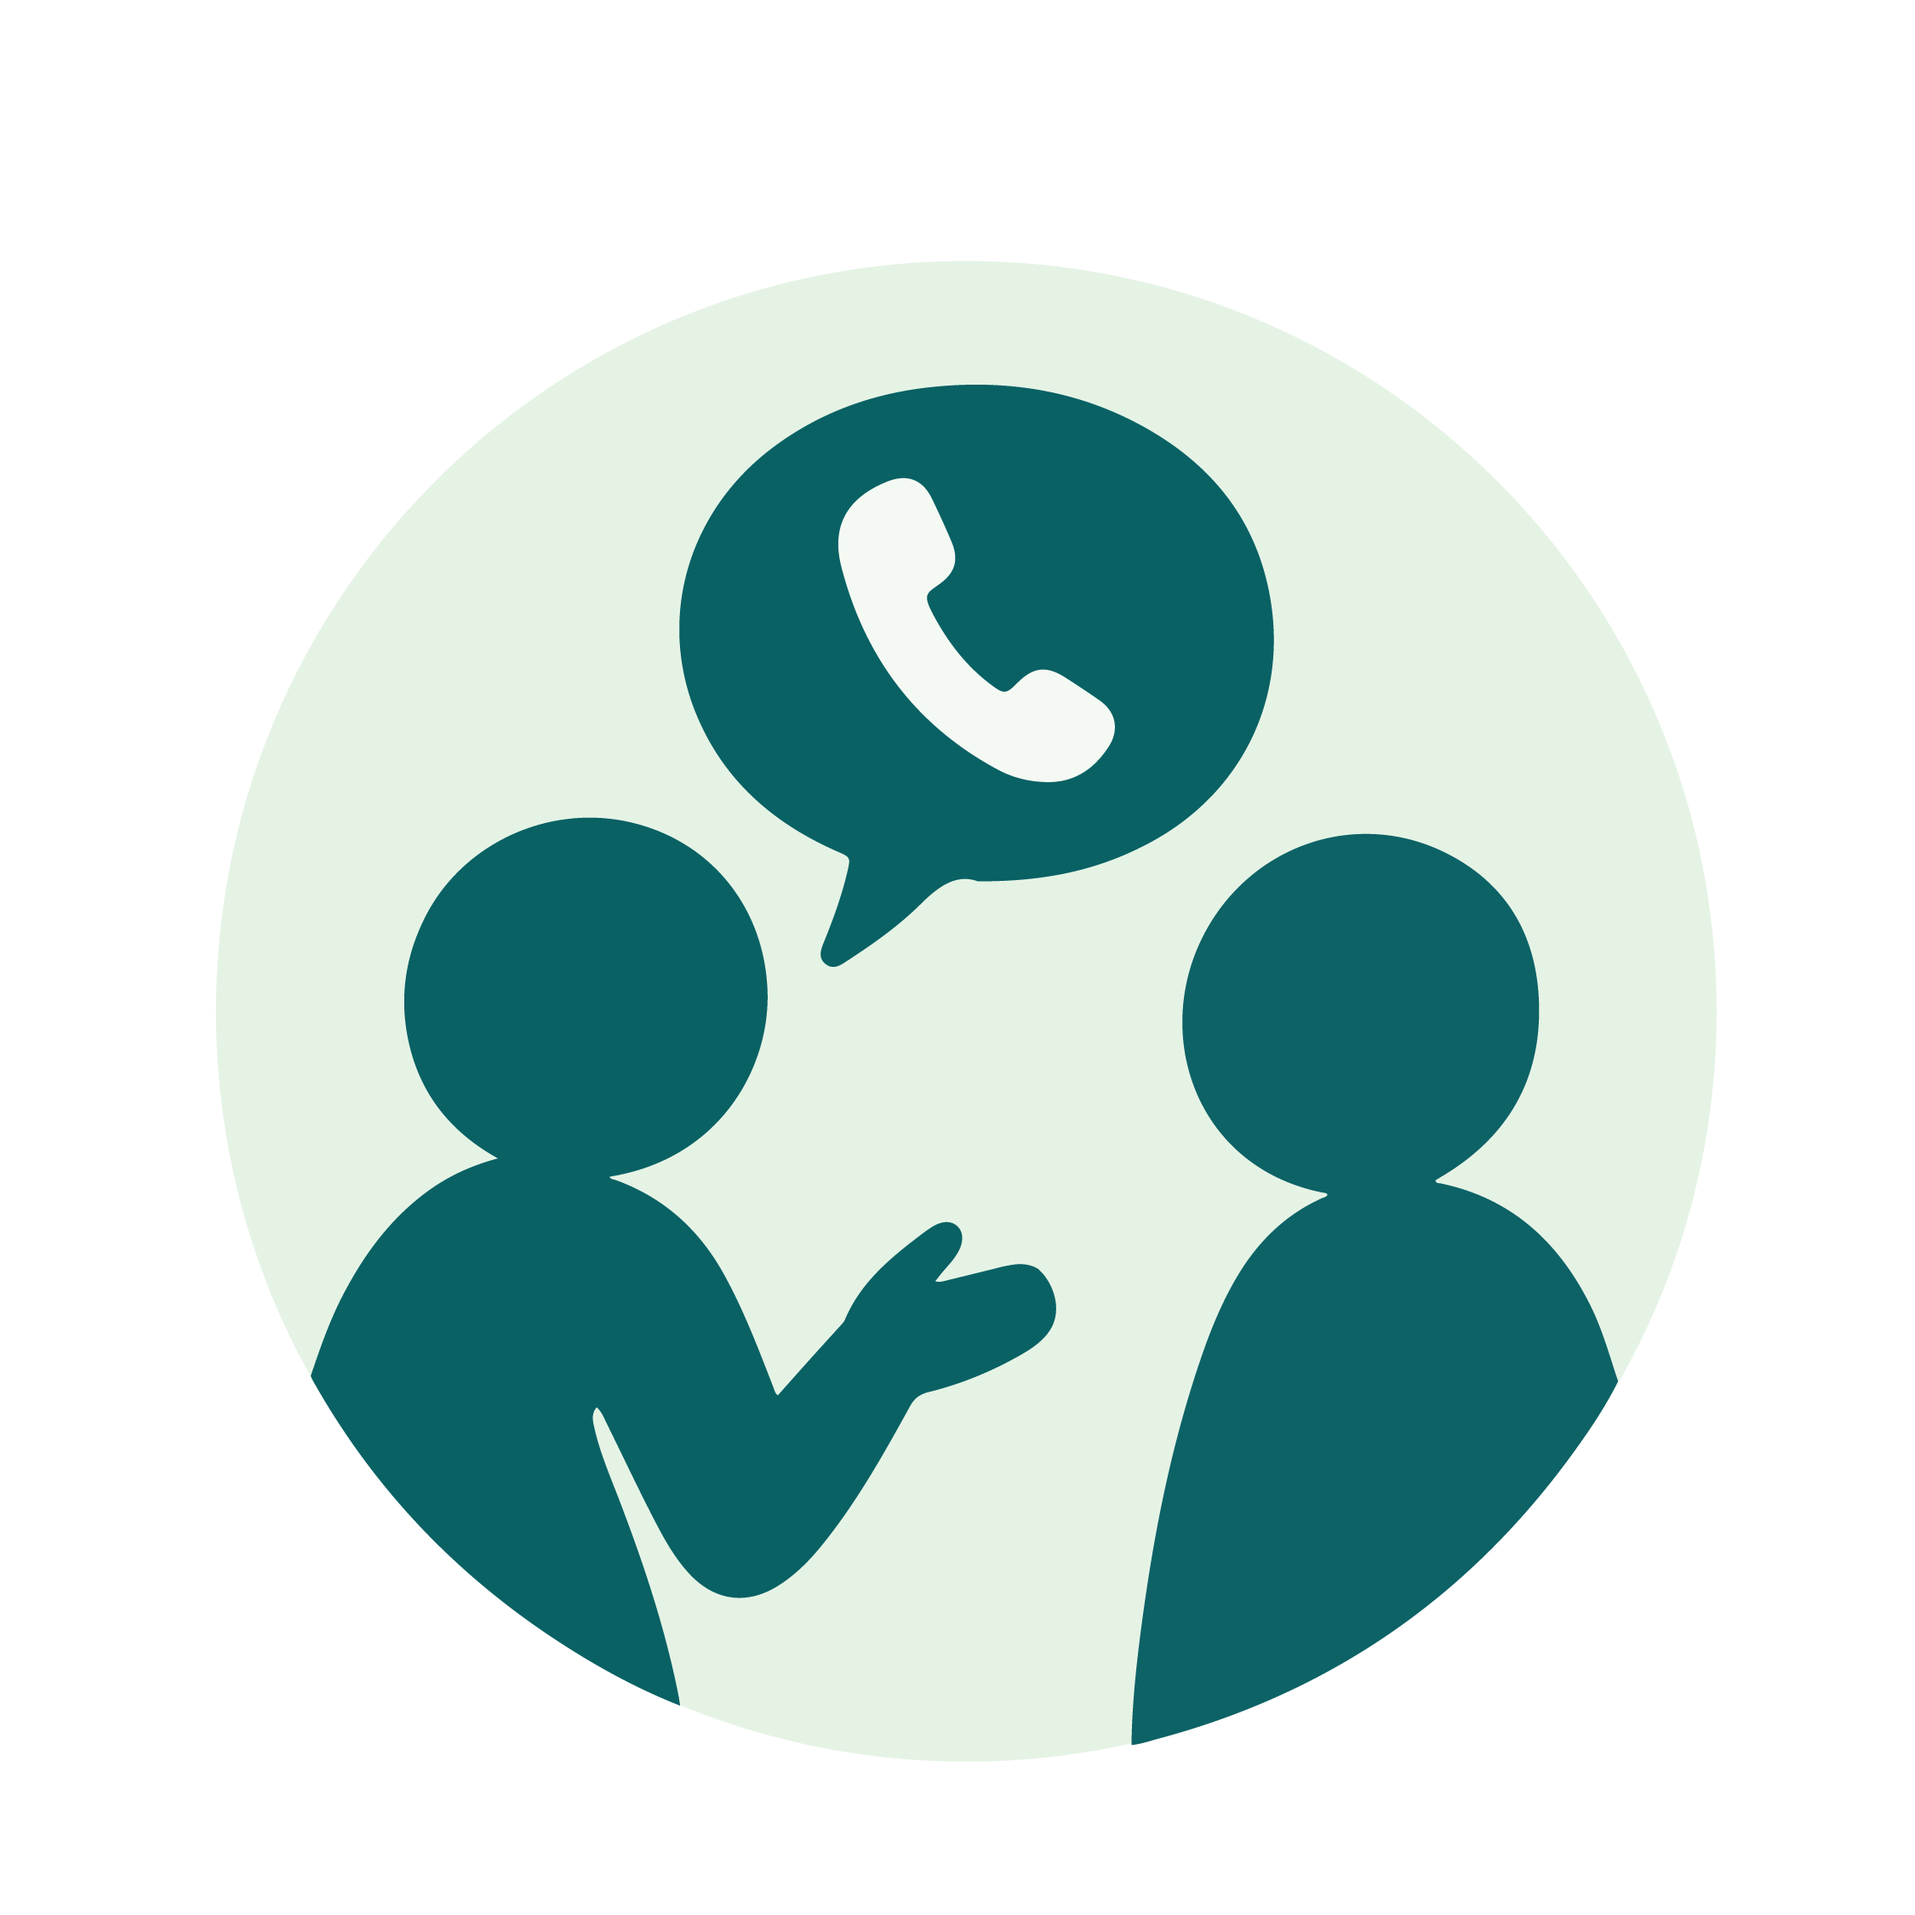
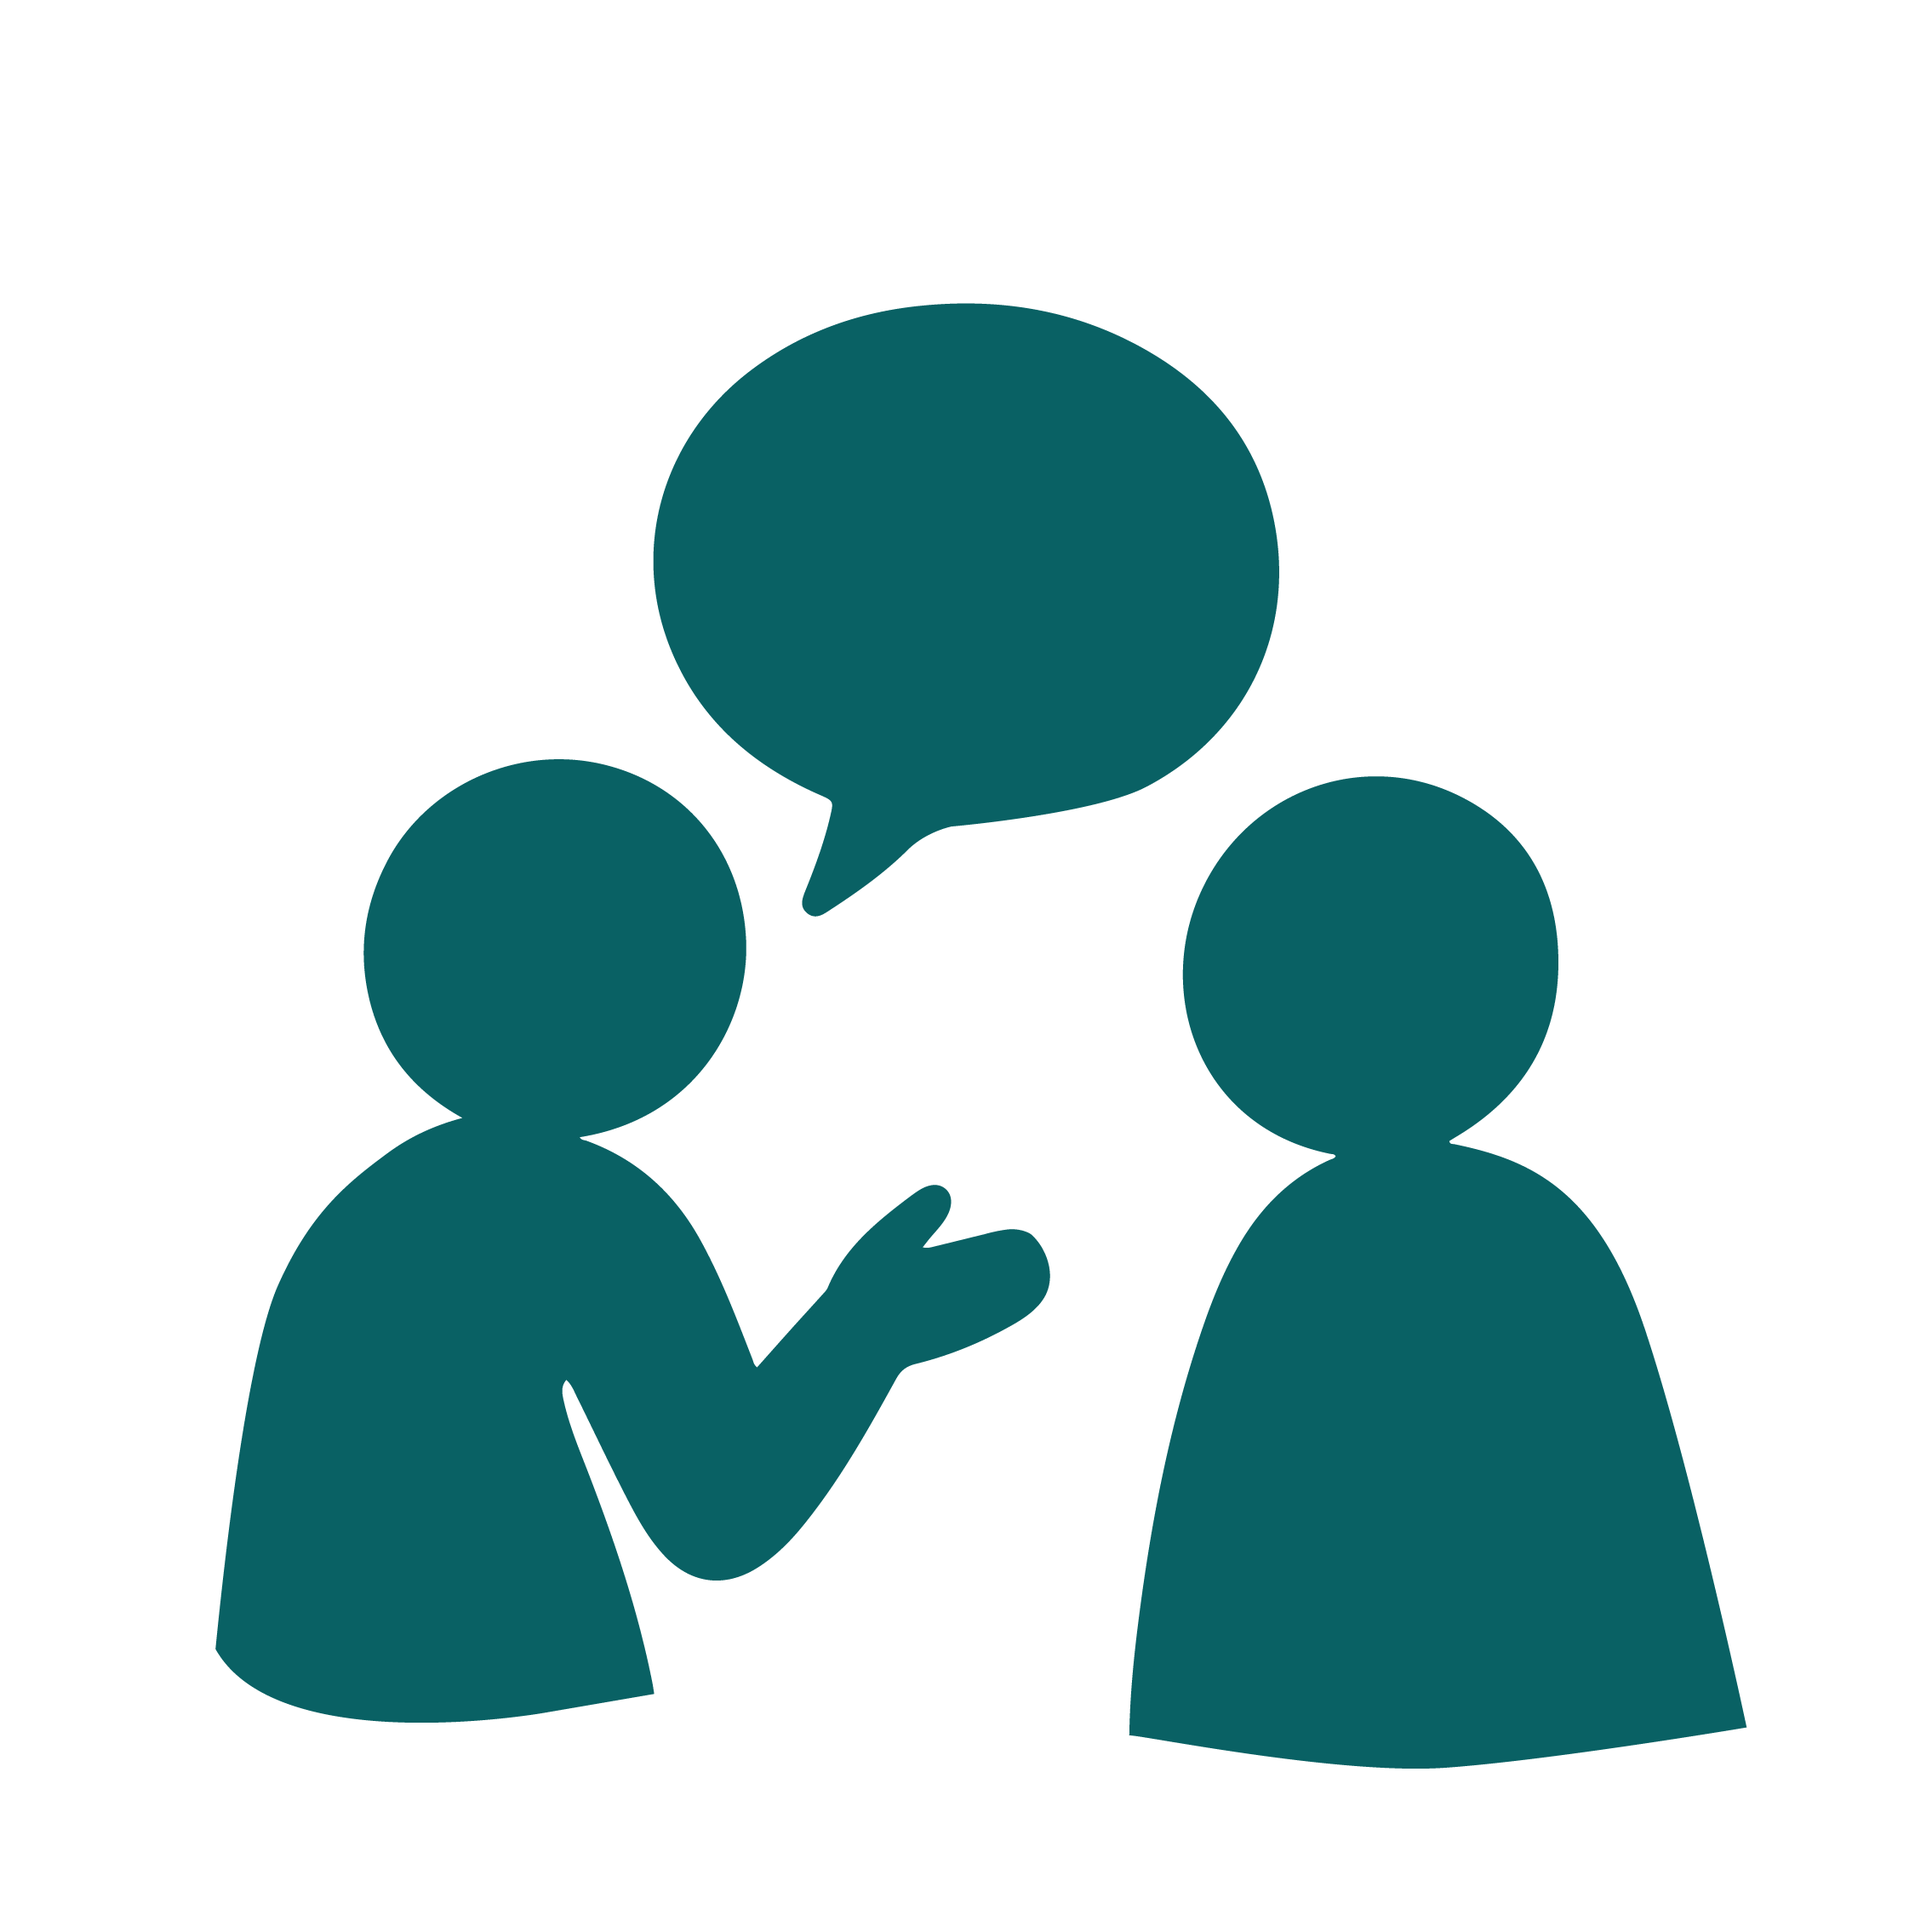
Cambiar icono abuso sexual

diff --git a/styles.css b/styles.css
@@ -7,7 +7,8 @@
   --wa:#25D366;--wa-dark:#128C4A;
   --radius:30px;--gap:18px;--max:1240px;
   --ease:cubic-bezier(.2,.75,.25,1);
-  --logo-h:60px; /* alto de los logos en la barra superior */
+  --logo-h:60px; /* alto del logo del Arzobispado en la barra superior */
+  --logo-cep-h:80px; /* alto del logo de la Comisión (más grande, para equilibrar con el del Arzobispado) */
 }
 *{box-sizing:border-box}
 html{scroll-behavior:smooth;scroll-padding-top:70px;-webkit-text-size-adjust:100%}
@@ -30,12 +31,14 @@ button{font:inherit}
 .nav-pill{position:relative;z-index:2;pointer-events:auto;width:100%;margin:0;padding:12px max(24px,calc((100% - var(--max))/2));display:grid;grid-template-columns:1fr auto 1fr;align-items:center;gap:18px;background:#fff;border:0;border-bottom:1px solid rgba(0,125,124,.10);border-radius:0;box-shadow:0 6px 22px rgba(22,62,66,.08);transition:padding .35s ease,box-shadow .35s ease}
 /* Al bajar: la barra se vuelve blanca con sombra suave */
 .nav-pill.scrolled{padding-top:7px;padding-bottom:7px;box-shadow:0 10px 32px rgba(22,62,66,.12)}
-.nav-pill.scrolled .brand img{height:calc(var(--logo-h) - 8px)}
+.nav-pill.scrolled .brand-arz img{height:calc(var(--logo-h) - 4px)}
+.nav-pill.scrolled .brand-cep img{height:calc(var(--logo-cep-h) - 4px)}
 .site-header.open .nav-pill{background:#fff;box-shadow:0 10px 32px rgba(22,62,66,.10)}
 .brand{display:flex;align-items:center;text-decoration:none;min-width:0}
 .brand-arz{justify-self:start}
 .brand-cep{justify-self:end}
 .brand img{height:var(--logo-h);width:auto;max-width:100%;object-fit:contain;transition:height .35s ease}
+.brand-cep img{height:var(--logo-cep-h)}
 .nav-links{position:relative;display:flex;align-items:center;justify-self:center;gap:3px}
 .nav-links a{position:relative;z-index:1;text-decoration:none;font-size:13.5px;font-weight:600;color:#33484d;padding:11px 16px;border-radius:100px;white-space:nowrap;transition:background .2s,color .3s}
 .nav-links a em{font-style:normal}
@@ -497,7 +500,7 @@ body.menu-open .wa-float{pointer-events:none}
 }
 
 @media(max-width:1180px){
-  :root{--logo-h:50px}
+  :root{--logo-h:50px;--logo-cep-h:68px}
   /* Pie: logos en su propia fila para que no se sobrepongan al texto */
   .site-footer{display:grid;grid-template-columns:1fr auto;align-items:center;gap:18px 25px}
   .footer-logos{grid-column:1/-1;flex-wrap:wrap}
@@ -509,7 +512,7 @@ body.menu-open .wa-float{pointer-events:none}
 /* ============ TABLET ============ */
 @media(max-width:980px){
   .nav-links a{padding:10px 10px;font-size:11.5px}
-  :root{--logo-h:40px}
+  :root{--logo-h:40px;--logo-cep-h:56px}
   .section{width:calc(100% - 36px)}
   .route-section{display:block}
   .route-side{display:contents}
@@ -537,7 +540,7 @@ body.menu-open .wa-float{pointer-events:none}
   .nav-pill{display:flex;justify-content:flex-start;gap:10px;padding-left:16px;padding-right:16px}
   .brand-cep{margin-left:auto}
   .menu-toggle{order:3}
-  :root{--logo-h:38px}
+  :root{--logo-h:38px;--logo-cep-h:52px}
   .nav-indicator{display:none}
   .nav-links{
     position:absolute;top:calc(100% + 10px);left:14px;right:14px;
@@ -593,9 +596,9 @@ body.menu-open .wa-float{pointer-events:none}
 @media(max-width:700px){
   html{scroll-padding-top:62px}
   .site-header{top:0;padding:0}
-  .nav-pill{padding:9px 14px;min-height:62px}
+  .nav-pill{padding:8px 14px;min-height:62px}
   .nav-pill.scrolled{padding-top:7px;padding-bottom:7px}
-  :root{--logo-h:34px}
+  :root{--logo-h:34px;--logo-cep-h:48px}
   .section{width:calc(100% - 28px);padding:44px 0 24px}
 
   /* Portada en móvil */
@@ -717,7 +720,7 @@ body.menu-open .wa-float{pointer-events:none}
 /* Logo de portada más grande en celulares (se extiende un poco sobre el margen lateral,
    la imagen tiene espacio transparente alrededor, así que no se corta el dibujo) */
 @media(max-width:520px){
-  :root{--logo-h:30px}
+  :root{--logo-h:30px;--logo-cep-h:44px}
   .hero-logo{width:calc(100% + 56px);max-width:none;margin:0 -28px 30px}
 }
 

diff --git a/index.html b/index.html
@@ -100,7 +100,7 @@
   <div class="section-heading reveal"><h2>Conócenos</h2></div>
   <div class="bento about-grid">
     <article class="tile tile-teal about-who has-sticker reveal">
-      <img class="sticker sticker-hands-who" src="assets/DECO-MANOS.png" alt="" aria-hidden="true" loading="lazy" onerror="this.remove()">
+      <img class="sticker sticker-hands-who" src="assets/ICONO_AZUL.png" alt="" aria-hidden="true" loading="lazy" onerror="this.remove()">
       <span class="tile-label">¿Quiénes somos?</span>
       <h3>Acoger, escuchar y acompañar</h3>
       <p>Somos un servicio pastoral de la Arquidiócesis de Lima, conformado por un equipo interdisciplinario de profesionales laicos, que acoge, escucha y acompaña a toda persona que desee informar o denunciar algún hecho de abuso sexual dentro del ámbito eclesial. Te ofrecemos un espacio seguro, empático y confidencial.</p>
@@ -367,7 +367,7 @@
     <div class="contact-orbit orbit-a"></div><div class="contact-orbit orbit-b"></div>
     <!-- Figuras del logo (persona, mano, paloma) como decoración. Se pueden cambiar por PNG propios. -->
     <img class="deco deco-person" src="assets/DECO-ABRAZO.png" alt="" aria-hidden="true" onerror="this.remove()">
-    <img class="deco deco-hand" src="assets/DECO-MANOS.png" alt="" aria-hidden="true" onerror="this.remove()">
+    <img class="deco deco-hand" src="assets/ICONO_AZUL.png" alt="" aria-hidden="true" onerror="this.remove()">
     <img class="deco deco-dove" src="assets/DECO-PALOMA.png" alt="" aria-hidden="true" onerror="this.remove()">
     <div class="contact-copy">
       <span class="eyebrow">Te esperamos</span>
